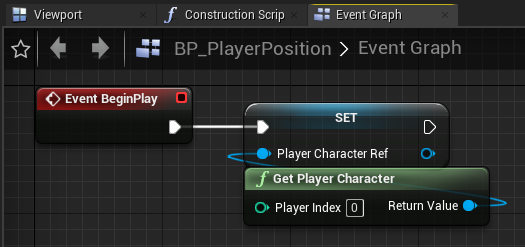
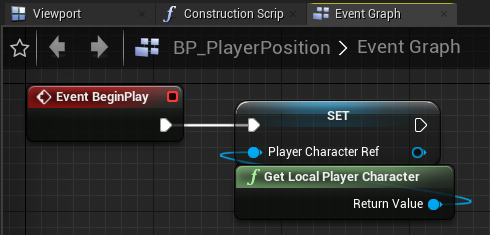
Update BP_PlayerPosition.
- Replace "Get Player Character" with "Get Local Player Character."
- Change suggested by MichaelG123 on Discord.

diff --git a/docs/lesson1.html b/docs/lesson1.html
@@ -128,7 +128,7 @@
 
             <ol>
                 <li>Open the <code>AdventurousMod</code> folder and create a blueprint for a new actor called <code>BP_PlayerPosition</code>. Open this blueprint.</li>
-                <li>Add a <code>Get Player Character</code> node and promote the output to a variable called <code>Player Character Ref</code>. Drag out from the BeginPlay event to set the reference on script execution.
+                <li>Add a <code>Get Local Player Character</code> node and promote the output to a variable called <code>Player Character Ref</code>. Drag out from the <code>BeginPlay</code> event to set the reference on script execution.
                     <br>
                     <a href="images/lesson1/BP_PlayerPosition_1.png"><img src="images/lesson1/BP_PlayerPosition_1.png" alt="Storing reference to Player Character"></a>
                 </li>
@@ -146,7 +146,7 @@
 
                 <li>
                     Now, drag in your reference to the <code>BP_AdventurousMod</code> actor. From here, drag out the following chain of nodes:
-                    <code>HUD Ref</code> &rarr; <code>Txt Output 1</code> &rarr; <code>SetText</code>.
+                    <code>HUD Ref</code> &rarr; <code>Get Txt Output 1</code> &rarr; <code>SetText</code>.
                     <img src="images/lesson1/BP_PlayerPosition_4.png" alt="Begin wiring Set Text">
                 </li>
 
